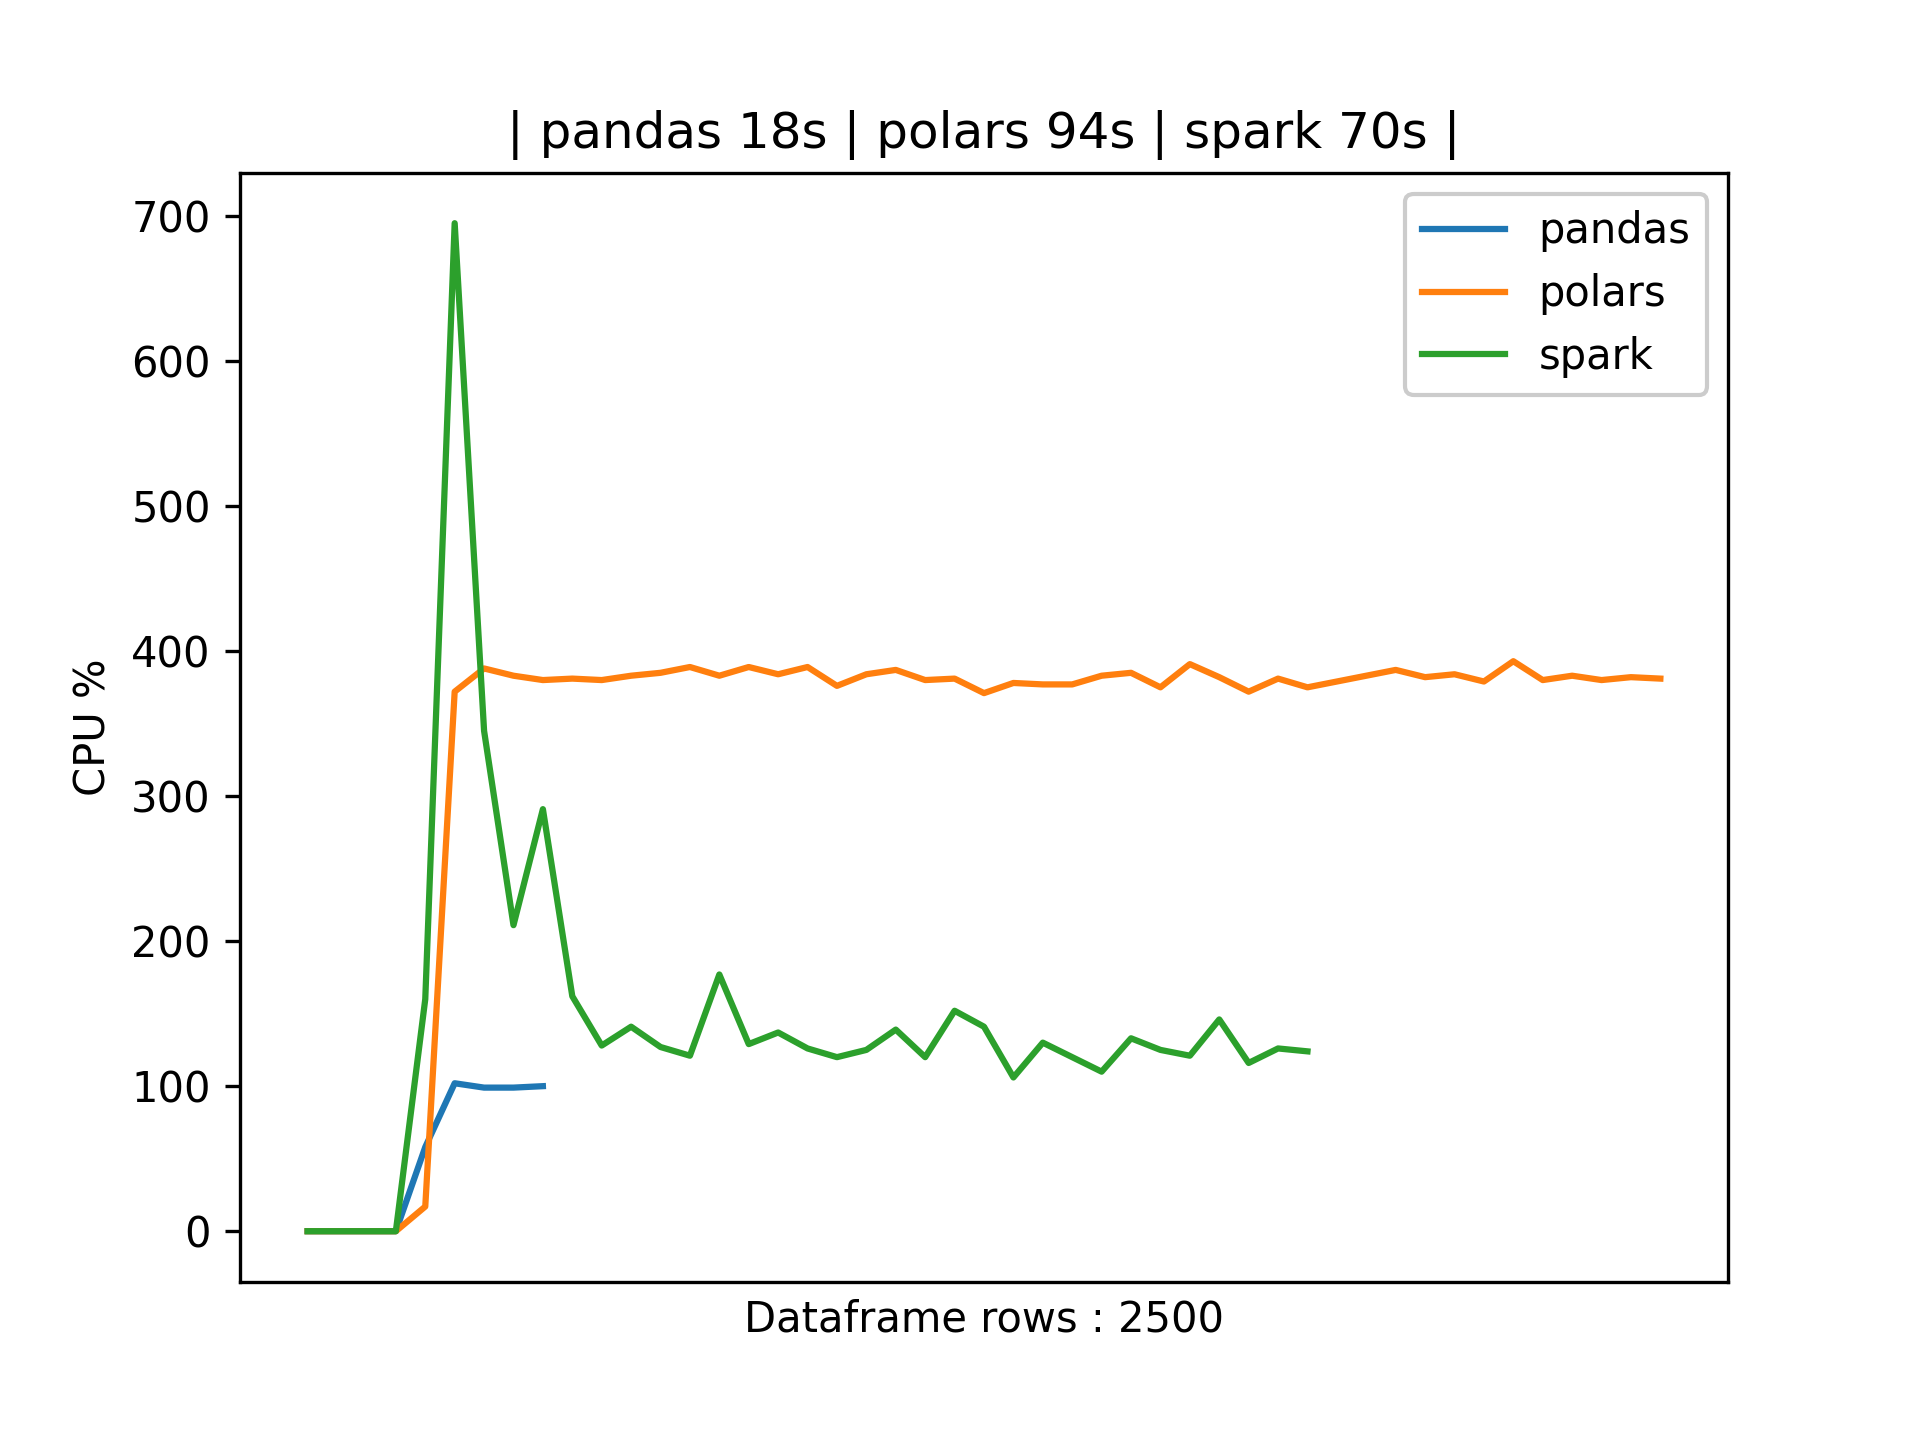
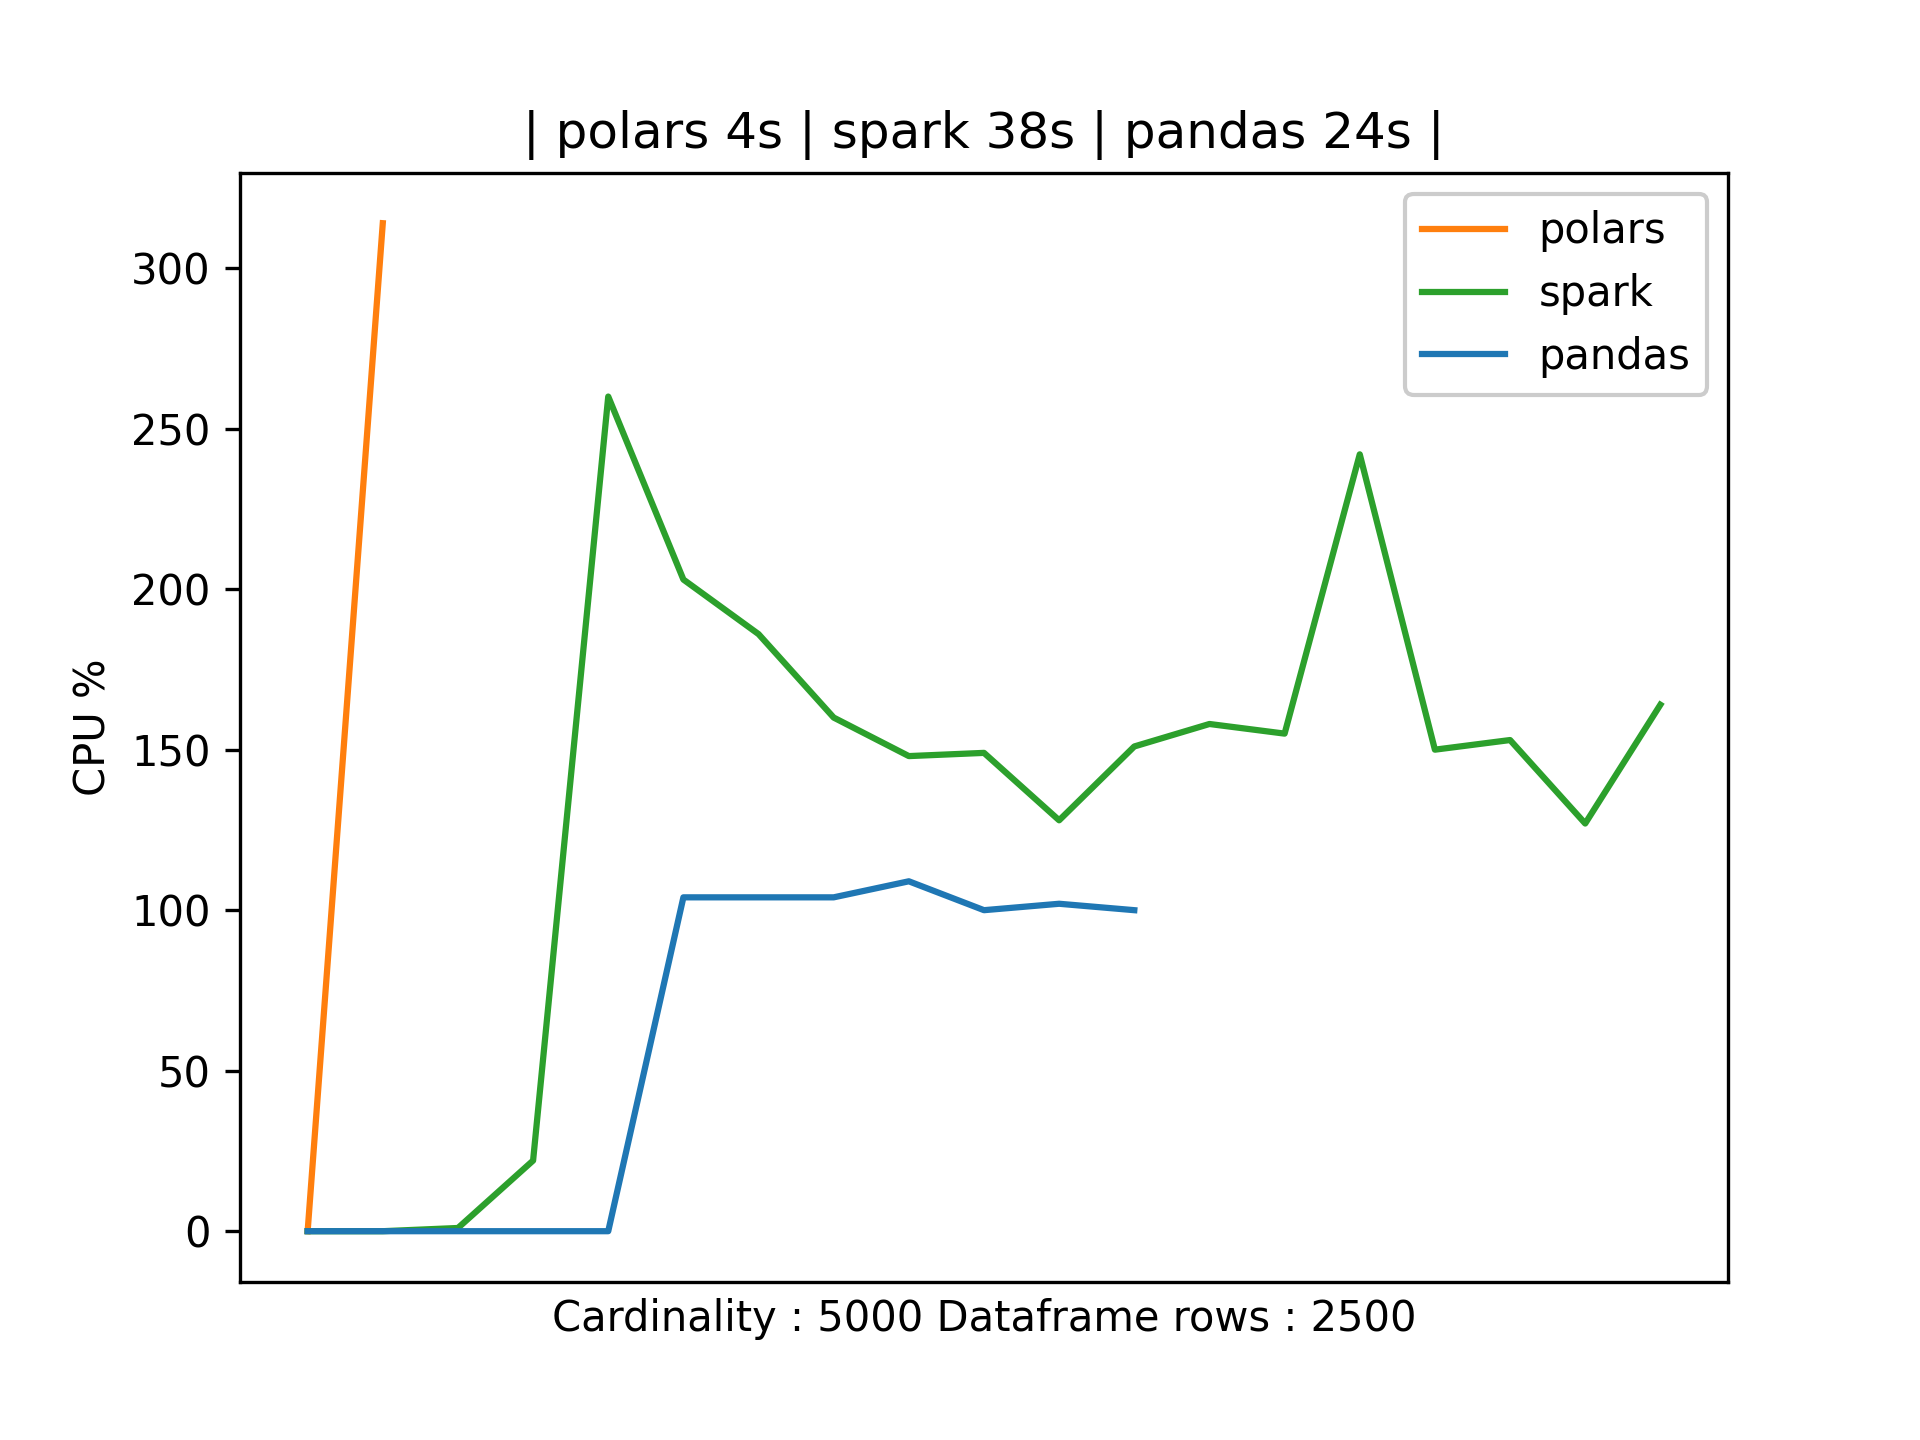
feat: added cardinality and updated exception handling

diff --git a/main.py b/main.py
@@ -16,8 +16,11 @@ imageName = "tabular-comp"
 containerStatsName = "containerStats.json"
 #dataframeN = 1000000
 calcN = 10000
+cardinality = 5000
+testTypes = ["spark","polars","pandas"]
+dataframeNs = [2500,25000,250000,2500000]
 
-def dockerLog(event,testType,dataframeN):
+def dockerLog(event,testType,dataframeN,cardinality):
     cpuLog = []
     memLog = []
     print("################################################### dockerLog started")
@@ -47,9 +50,9 @@ def dockerLog(event,testType,dataframeN):
                         cpuLog.append(cpuPercent)
                         memLog.append(mem)
                 except Exception as e:
-                    print("Error: "+str(e))
+                    #print("Error: "+str(e))
                     #print(json.dumps(status["memory_stats"]))
-                    status = container.stats(decode=None, stream = False)
+                    #status = container.stats(decode=None, stream = False)
                     #print(json.dumps(status))
                     #print(json.dumps(status, indent=4, sort_keys=True))
                     break
@@ -65,55 +68,59 @@ def dockerLog(event,testType,dataframeN):
     print("################################################### dockerLog ended")
 
 ##Visualize Mem & CPU
-def visMemCpu(testType,timeSpent,dataframeN,visAll=False):
-    if visAll==True:
-        from os import listdir
-        from os.path import isfile, join
-        outputFiles = [f for f in listdir("output/") if isfile(join("output/", f))]
-        combDict = {}
-        for file in outputFiles:
-            if "containerStats.json" in file:
-                with open("output/"+file, "r") as fp:
-                    data = json.load(fp)
-                fileSplit = file.split("_")
-                rows = fileSplit[0]
-                lib = fileSplit[1]
-                try:
-                    combDict[rows][lib] = {}
-                    combDict[rows][lib]["mem"] = data["mem"]
-                    combDict[rows][lib]["cpu"] = data["cpu"]
-                    combDict[rows][lib]["timeSpent"] = int(data["timeSpent"])
-                except:
-                    combDict[rows] = {}
-                    combDict[rows][lib] = {}
-                    combDict[rows][lib]["mem"] = data["mem"]
-                    combDict[rows][lib]["cpu"] = data["cpu"]
-                    combDict[rows][lib]["timeSpent"] = int(data["timeSpent"])
-        with open("output/all.json", "w") as f:
-            json.dump(combDict, f)
+def visMemCpu():
+    from os import listdir
+    from os.path import isfile, join
+    outputFiles = [f for f in listdir("output/") if isfile(join("output/", f))]
+    combDict = {}
+    for file in outputFiles:
+        if "containerStats.json" in file:
+            with open("output/"+file, "r") as fp:
+                data = json.load(fp)
+            fileSplit = file.split("_")
+            rows = fileSplit[0]
+            lib = fileSplit[1]
+            try:
+                combDict[rows][lib] = {}
+                combDict[rows][lib]["mem"] = data["mem"]
+                combDict[rows][lib]["cpu"] = data["cpu"]
+                combDict[rows][lib]["timeSpent"] = int(data["timeSpent"])
+            except:
+                combDict[rows] = {}
+                combDict[rows][lib] = {}
+                combDict[rows][lib]["mem"] = data["mem"]
+                combDict[rows][lib]["cpu"] = data["cpu"]
+                combDict[rows][lib]["timeSpent"] = int(data["timeSpent"])
+    with open("output/all.json", "w") as f:
+        json.dump(combDict, f)
 
-        for rows in combDict.keys():
-            textString = " | "
-            plt.clf()
-            for lib in combDict[rows].keys():
-                plt.plot(combDict[rows][lib]["mem"], label=lib)
-                textString += lib + " " + str(combDict[rows][lib]["timeSpent"]) + "s | "
-            plt.xticks([], [])
-            plt.ylabel("Memory MB")
-            plt.title(textString)
-            plt.xlabel("Dataframe rows : " + rows)
-            plt.legend(framealpha=1, frameon=True)
-            plt.savefig("output/"+"{}_mem.png".format(str(rows)), dpi=300)
-            plt.clf()
-            for lib in combDict[rows].keys():
-                plt.plot(combDict[rows][lib]["cpu"], label=lib)
-            plt.xticks([], [])
-            plt.ylabel("CPU %")
-            plt.xlabel("Dataframe rows : " + rows)
-            plt.title(textString)
-            plt.legend(framealpha=1, frameon=True)
-            plt.savefig("output/"+"{}_cpu.png".format(str(rows)), dpi=300)
-        plt.yticks([], [])
+    for rows in combDict.keys():
+        # Dictionary to store a color for each library
+        colorDict = {}
+        colorDict["pandas"] = "tab:blue"
+        colorDict["polars"] = "tab:orange"
+        colorDict["spark"] = "tab:green"
+        textString = " | "
+        plt.clf()
+        for lib in combDict[rows].keys():
+            plt.plot(combDict[rows][lib]["mem"], label=lib, color=colorDict[lib])
+            textString += lib + " " + str(combDict[rows][lib]["timeSpent"]) + "s | "
+        plt.xticks([], [])
+        plt.ylabel("Memory MB")
+        plt.title(textString)
+        plt.xlabel("Cardinality : "+ str(cardinality) + " Dataframe rows : " + rows)
+        plt.legend(framealpha=1, frameon=True)
+        plt.savefig("output/"+"{}_mem.png".format(str(rows)), dpi=300)
+        plt.clf()
+        for lib in combDict[rows].keys():
+            plt.plot(combDict[rows][lib]["cpu"], label=lib, color=colorDict[lib])
+        plt.xticks([], [])
+        plt.ylabel("CPU %")
+        plt.xlabel("Cardinality : "+ str(cardinality) + " Dataframe rows : " + rows)
+        plt.title(textString)
+        plt.legend(framealpha=1, frameon=True)
+        plt.savefig("output/"+"{}_cpu.png".format(str(rows)), dpi=300)
+    plt.yticks([], [])
 
 def getContainers():
     containersReturn = []
@@ -137,29 +144,51 @@ def removeContainers():
 
 def runContainer(testType,dataframeN):
     images = dockerClient.images.list(all=True)
+    tries = 0
     if imageName in ' '.join(map(str, images)):
-        print("################################################### Image exist, starting container..")
-        dockerClient.containers.run(imageName+":latest", environment = {"TEST_TYPE":testType,"DATAFRAME_N":dataframeN,"CALC_N":calcN})
+        while True:
+            try:
+                print("################################################### Image exist, starting container..")
+                dockerClient.containers.run(imageName+":latest", environment = {"TEST_TYPE":testType,"DATAFRAME_N":dataframeN,"CALC_N":calcN,"CARDINALITY":cardinality})
+                break
+            except Exception as e:
+                print("################################################### Error starting container..")
+                if tries == 3:
+                    print(e)
+                    break
+                tries += 1
+                time.sleep(1)
+                continue
     else:
-        print("################################################### Image doesn't exist, need to create it!")
-        dockerClient.images.build(path = "./", tag = imageName)
-        dockerClient.containers.run(imageName+":latest", environment = {"TEST_TYPE":testType,"DATAFRAME_N":dataframeN,"CALC_N":calcN})
+        while True:
+            try:
+                print("################################################### Image doesn't exist, need to create it!")
+                dockerClient.images.build(path = "./", tag = imageName)
+                dockerClient.containers.run(imageName+":latest", environment = {"TEST_TYPE":testType,"DATAFRAME_N":dataframeN,"CALC_N":calcN,"CARDINALITY":cardinality})
+                break
+            except Exception as e:
+                print("################################################### Error starting container..")
+                if tries == 3:
+                    print(e)
+                    break
+                tries += 1
+                time.sleep(1)
+                continue
 
 if __name__ == "__main__":
-    testTypes = ["spark","polars","pandas"]
-    dataframeNs = [2500,25000,250000,2500000]
-    for testType in testTypes:
-        for dataframeN in dataframeNs:
-            removeContainers()
-            event = Event()
-            dockerLogThread = Thread(target=dockerLog, args=(event,testType,dataframeN,))
-            dockerLogThread.start()
-            startEpoch = int(time.time()*1000)
-            runContainer(testType,dataframeN)
-            endEpoch = int(time.time()*1000)
-            timeSpent = float((endEpoch-startEpoch)/1000)
-            print("Time spent : {}".format(timeSpent))
-            event.set()
-            dockerLogThread.join()
-
-    visMemCpu("testType","timeSpent","dataframeN",True)
+    # for testType in testTypes:
+    #     for dataframeN in dataframeNs:
+    #         removeContainers()
+    #         event = Event()
+    #         print("Starting {} {}".format(testType,dataframeN))
+    #         dockerLogThread = Thread(target=dockerLog, args=(event,testType,dataframeN,cardinality,))
+    #         dockerLogThread.start()
+    #         startEpoch = int(time.time()*1000)
+    #         runContainer(testType,dataframeN)
+    #         endEpoch = int(time.time()*1000)
+    #         timeSpent = float((endEpoch-startEpoch)/1000)
+    #         print("Time spent : {}".format(timeSpent))
+    #         event.set()
+    #         dockerLogThread.join()
+    #Visualize with matplotlib
+    visMemCpu()

diff --git a/test.py b/test.py
@@ -14,11 +14,12 @@ import os
 testType = str(os.getenv('TEST_TYPE', default="polars"))
 dataframeN = int(os.getenv('DATAFRAME_N', default="10000"))
 calcN = int(os.getenv('CALC_N', default="1000"))
+cardinality = int(os.getenv('CARDINALITY', default="50"))
 
 def mockedDict():
     #Generate a list of unique ID's
     uniqueIdList = []
-    for n in range(1,50):
+    for n in range(1,cardinality):
         uniqueIdList.append("machine"+str(n))
     #Generate mocked data
     idList = []

diff --git a/README.md b/README.md
@@ -39,7 +39,7 @@ Polars:
 ![Architecture overview][arch]
 
 ## Pre-requisite
-Confirmed working on Linux (and WSL on Windows)
+Confirmed working on Linux, WSL on Windows and macOS (M1)
 Ensure that you have Docker, Python and Pip installed.
 
 
